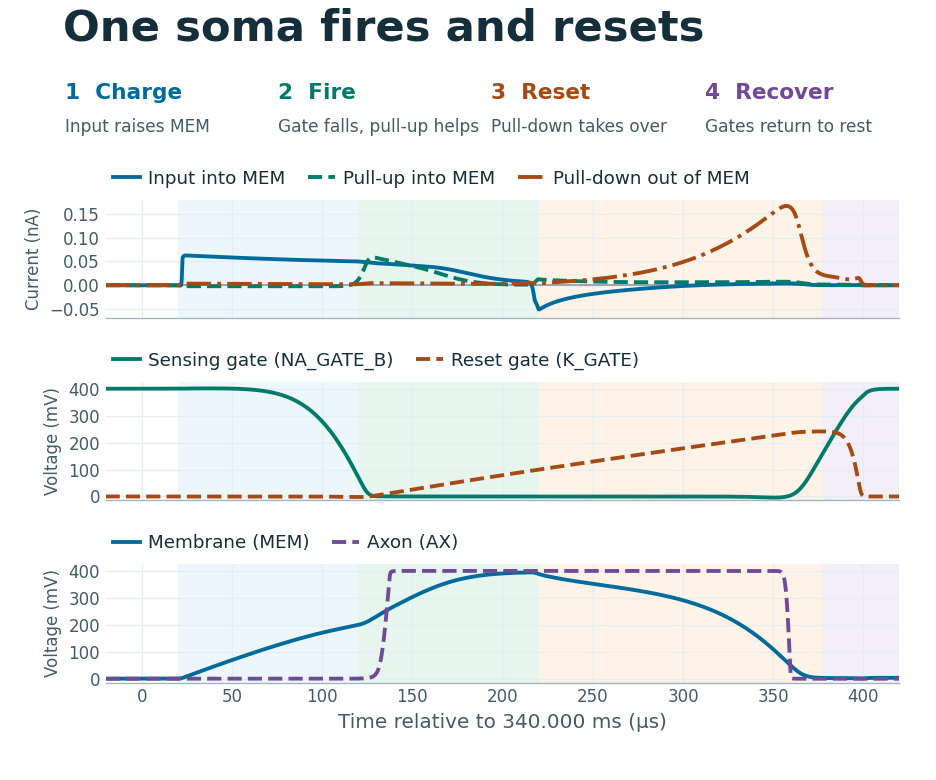
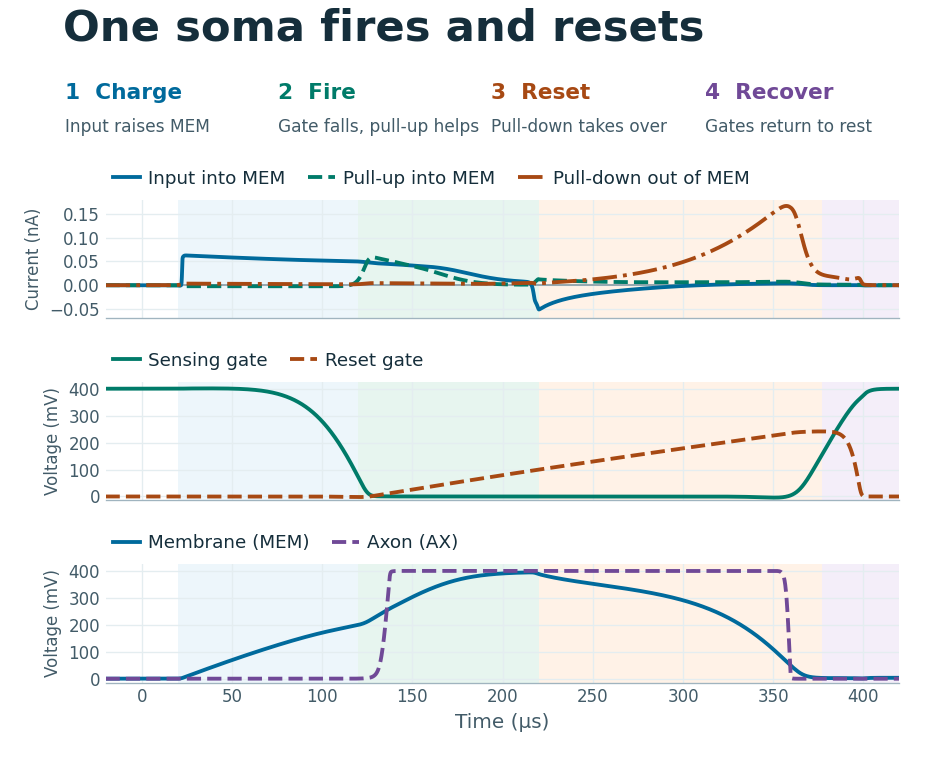
SKY-TT-012 Explain each chip experiment in the public guide

diff --git a/README.md b/README.md
@@ -1,66 +1,61 @@
 # Analogue SNN Building Blocks
 
-This project builds analogue circuits for spiking neural networks, where
-neurons communicate through brief voltage pulses. The Tiny Tapeout test chip
-brings neurons and synapses together in a small network that runs without a clock.
+This chip lets you watch a neuron fire, measure what each kind of synapse
+does on its own, and see how excitation and inhibition shape the response
+of a connected network. The neural circuits run continuously without a
+clock.
 
-[Four pins](#four-pins) · [Bench tests](#how-to-test) · [Tiny Tapeout datasheet source](docs/info.md)
-
-[![Soma replay. Input current lifts MEM, the sensing gate falls, pull-up current grows, and the axon rises. The delayed reset gate rises and pull-down current lowers MEM.](media/soma-firing.gif)](media/soma-firing.gif)
-
-[Soma still figure](docs/soma-firing.png) · Open either replay for a larger view.
-
-**Revision check.** The reservation `6c416f7` grounds all four analogue pins.
-Leave them undriven on that revision. The experiments below use the functional 1×2 tile.
+[Four analogue pins](#four-pins) · [Try the chip](#how-to-test) · [Datasheet](docs/info.md)
 
 ## How it works
 
-**Watch one soma fire.** The soma is the part of a neuron that charges up and fires.
-MEM is the voltage on its membrane capacitor. Follow the moving dots down the three plots.
+The soma integrates incoming current on a membrane capacitor. When the
+membrane voltage reaches threshold, the neuron sends a spike along its
+axon. The soma then discharges the capacitor so the neuron can fire again.
 
-1. **Charge.** Input current raises MEM first. The axon is still low.
-2. **Fire.** Rising MEM pulls the sensing gate (`NA_GATE_B`) low. The pull-up adds current, MEM rises faster and the axon goes high.
-3. **Reset.** The delayed reset gate (`K_GATE`) rises. It shuts off the pull-up path and turns on the pull-down, which discharges MEM. The axon goes low.
-4. **Recover.** As MEM falls, the sensing gate rises and the reset gate drops. The soma can charge again.
+[![A neuron charges, fires, resets and recovers.](media/soma-firing.gif)](media/soma-firing.gif)
 
-*Extracted SKY130A receiver simulation at 25 °C and R = 0.400 V. The time origin is 340.000 ms into that run.*
+[Still image](docs/soma-firing.png)
 
-**Follow the spike.** Both columns use the same STIM command. Read from top to bottom.
+Each of the two source neurons connects to the receiver through a synapse.
+A spike from the excitatory source adds current to the receiver. A spike
+from the inhibitory source draws current away. Each synapse stores its
+weight as charge on a floating gate. That weight sets how much current the
+synapse contributes when a spike arrives.
 
-[![Synchronized network replay. The same downward STIM pulse charges the enabled source somas. The E axon opens a positive synapse current. With both sources on, the I axon opens a negative current, the sum dips below zero and the receiver axon stays low.](media/follow-a-spike.gif)](media/follow-a-spike.gif)
+[![The same stimulus reaches the receiver with excitation alone and with excitation and inhibition together.](media/follow-a-spike.gif)](media/follow-a-spike.gif)
 
-[Network still figure](docs/follow-a-spike.png)
+[Still image](docs/follow-a-spike.png)
 
-- **Source soma → axon.** STIM charges each enabled source soma. Its axon carries the voltage spike to its synapse.
-- **Axon → synapse → dendrite.** The axon enables a current set by the synapse’s stored floating-gate charge. E supplies current to the receiving dendrite. I draws current out. The dotted trace is the sum of the two synapse currents.
-- **Dendrite → receiver.** With E alone, the receiving membrane charges enough to fire. With E and I active, E first raises the membrane. I then pulls the sum below zero and the receiver stays quiet.
-
-*Whole-tile simulations from the earlier Stage03 extraction at 25 °C and R = 0.400 V with a finite bench load and preset synapse weights. These plots show internal model signals. On the bench, use AOUT to watch the receiver.*
+In the simulated network example, inhibition keeps the receiver quiet
+with the same stimulus that makes it fire under excitation alone.
 
 ## Four pins
 
-| Macro pin | Name | Bench connection |
+| Macro pin | Name | What it does |
 | --- | --- | --- |
 | `ua[0]` | R | 0.400 V supply for the neural circuit |
-| `ua[1]` | H | Reference feed for readout. Use 0.420 V at park and a nominal 1.000 V read command. |
-| `ua[2]` | AOUT | Buffered readback to a high-impedance scope |
-| `ua[3]` | STIM | External stimulus from a pulse generator |
+| `ua[1]` | H | Reference and programming input. Use 0.420 V at park and 1.000 V for readout. |
+| `ua[2]` | AOUT | Buffered analogue output for a high-impedance scope |
+| `ua[3]` | STIM | Input for an external stimulus pulse |
 
-Use the delivered shuttle’s mux map to find the board connectors for these macro pins.
-The board supplies 1.800 V on VDPWR and provides VGND. [Tiny Tapeout analogue pin guide](https://tinytapeout.com/specs/analog/#analog-pins)
+Use the shuttle’s mux map to find the corresponding board connectors.
+The board supplies 1.800 V on VDPWR and provides VGND.
+[Tiny Tapeout analogue pin guide](https://tinytapeout.com/specs/analog/#analog-pins)
 
 ## How to test
 
-Digital words are hexadecimal `UI / UIO`. Keep programming requests `uio[2]`, `uio[3]` and `uio[5]` low throughout.
+1. **Soma.** Stimulate the receiving soma directly and watch the membrane
+   voltage rise and reset.
+2. **Soma and axon.** Repeat the stimulus with AOUT switched to the axon
+   to see the outgoing spike.
+3. **Excitatory synapse.** Stimulate the standalone excitatory cell and
+   use the calibrated readout to measure the positive current.
+4. **Inhibitory synapse.** Repeat with the standalone inhibitory cell
+   to measure the negative current.
+5. **Connected network.** Send the same pulse with both sources off,
+   with excitation alone, and with excitation and inhibition together.
+   Compare the receiver's response.
 
-1. **Park and check.** Select the functional tile. Follow the board’s power-up order with `ena` low and reset asserted. Start at `00 / 00` with H at 0.420 V park. Release reset and enable the tile with `clk` low. Check feed currents and that AOUT is disconnected before changing to a read word.
-2. **Take a quiet trace.** Commission AOUT and STIM as described in [the bench procedure](docs/info.md#how-to-test). Use `53 / 00` to observe the receiving axon at AOUT with both sources off. Apply the same commissioned STIM pulse in tests 2–4.
-3. **Enable E.** Set `57 / 40` and repeat the pulse. Look for a receiver spike after STIM returns to park.
-4. **Enable E and I.** Set `5F / 40` and repeat the pulse. With weights comparable to the simulation, AOUT stays near its quiet level. The starting weights on silicon can differ from the model presets.
-
-Between tests, return STIM to park, open the AOUT route and turn off delivery before changing the selection. Let the new route settle and allow the receiver to recover before pulsing again.
-
-The corrected route03 extraction resolved an imposed inhibitory
-floating-gate charge change through calibrated AOUT while the excitatory
-cell remained steady. Writing and retention are separate powered silicon
-experiments.
+AOUT shows one signal at a time. The [datasheet bench steps](docs/info.md#how-to-test)
+give the settings for each experiment.

diff --git a/docs/info.md b/docs/info.md
@@ -1,43 +1,74 @@
 ## How it works
 
-STIM drives two source neurons. Static GPIO selects which source can excite (E) or inhibit (I) the receiving neuron.
+You can drive the receiving soma directly and watch its membrane charge
+and reset. Switch AOUT to the axon and repeat the stimulus to see the
+outgoing spike.
 
-- Current charges the soma’s membrane capacitor (MEM). As MEM rises, the sensing gate falls and the pull-up drives an axon spike.
-- The delayed reset gate turns off the pull-up and turns on the pull-down. MEM discharges and the axon returns low.
+![Simulation of a neuron charging, firing and resetting.](soma-firing.png)
 
-![Soma spike and reset in an extracted SKY130A receiver simulation.](soma-firing.png)
+Two source neurons feed the receiver. One synapse adds current and the
+other draws it away. Floating-gate charge sets each synapse's strength.
 
-- At each synapse, an axon spike enables a current set by stored floating-gate charge. E adds current to the receiving dendrite and I draws current out.
-- The same STIM pulse fires the receiver with E alone. With E and I, the dotted current sum dips below zero and the receiver axon stays low.
+Two standalone cells let you read the excitatory and inhibitory currents
+separately and apply programming pulses from H.
 
-![Same STIM command with E alone and with E and I in the Stage03 extraction at 25 °C, R = 0.400 V and preset synapse weights.](follow-a-spike.png)
+![Simulation showing how the same pulse affects the receiver with excitation alone and with inhibition added.](follow-a-spike.png)
 
 ## How to test
 
-**Check the revision first.** The reservation `6c416f7` grounds `ua[0]` through `ua[3]`. Leave those pins undriven on that revision. These steps use the functional tile. Use the shuttle’s mux map to locate its board connectors.
+Use the shuttle’s mux map to find these four pins on the board.
 
-| Macro pin | Name | Connection |
+| Macro pin | Name | What it does |
 | --- | --- | --- |
 | `ua[0]` | R | 0.400 V neural supply |
-| `ua[1]` | H | 0.420 V at park, nominal 1.000 V read command |
-| `ua[2]` | AOUT | Buffered receiver readback to scope |
-| `ua[3]` | STIM | External pulse generator |
+| `ua[1]` | H | Reference and programming input |
+| `ua[2]` | AOUT | Buffered analogue output |
+| `ua[3]` | STIM | Stimulus input |
 
-Words are hex `UI/UIO`. Keep `clk` and programming requests `uio[2]`, `uio[3]` and `uio[5]` low. Before changing routes, park STIM, open AOUT and turn off delivery. Settle the new route before reconnecting AOUT.
+Settings are hexadecimal `UI / UIO` words. Keep `clk` and the
+programming inputs `uio[2]`, `uio[3]` and `uio[5]` low during these
+experiments.
 
-1. **Power and park.** Follow the board power-up order with `ena` low, reset asserted, H at 0.420 V park and `00/00`. Release reset and enable the tile with `clk` low. Check feed currents and AOUT isolation before changing to a read word.
-2. **Calibrate.** Set H to 1.000 V. At `48/00`, fit AOUT at 190 and 210 mV STIM and check an interior level. Compare current-read blank `84/00` with CAL `A4/00`. Fit the change in AOUT against connector current and check a point of each sign. Check the VI input clamp separately at `64/00`.
-3. **Survey STIM.** With MEM isolated, compare positive delivery `84/50` with blank `84/40`. Measure loaded STIM. Start with small commands in the surveyed range.
-4. **Observe quiet.** Apply a commissioned pulse at `53/00`. AOUT shows the receiver axon with both sources off. The model command falls from 399 to 153.41 mV in 7 µs, holds 30 µs and returns in 4 µs.
-5. **Enable E.** Repeat the pulse at `57/40`. Look for a receiver spike. Use `47/40` for a separate MEM trace.
-6. **Enable E and I.** Repeat at `5F/40` with the same pulse, supplies and load. Look for a quiet axon. Use `4F/40` for MEM. Recover between pulses. The model used E and I floating-gate presets of 0.225 V and 0.125 V. Record the starting silicon response.
+Power up with `ena` and `rst_n` low, `00 / 00` selected, H at 0.420 V
+and STIM at 0.400 V. Follow the board's power-up order. Release reset and
+enable the chip. Check the supply currents before bringing H to 1.000 V
+for readout. Select `48 / 00` and change STIM from 190 mV to 210 mV.
+Check that AOUT follows the change.
 
-Route03 resolved an imposed inhibitory floating-gate charge change through
-calibrated AOUT in the powered extracted model. Writing and retention require
-a separate silicon experiment.
+| Experiment | UI / UIO | Read at AOUT |
+| --- | --- | --- |
+| Soma | `41/40` | Receiver membrane voltage |
+| Soma and axon | `42/40` | Receiver axon spike |
+| Excitatory synapse | `84/01` | Positive current |
+| Inhibitory synapse | `84/02` | Negative current |
+| Connected network | `53/00`, `57/40`, `5F/40` | Receiver axon response |
+
+For the soma and axon, drive the receiver directly from STIM. Use
+`41/00` and `42/00` for the quiet traces. In the network, the three
+settings select both sources off, excitation alone, and excitation with
+inhibition. For each trace, try dropping STIM from 0.400 V to about
+0.153 V with a 7 µs fall, a 30 µs hold and a 4 µs return. Keep the
+pulse and load the same and let the receiver recover between pulses.
+
+For either standalone synapse, set STIM to 0.400 V for the active read
+and 0 V for the inactive check. Calibrate the current readout using
+`84 / 00` for the blank and `A4 / 00` to connect the 10 MΩ calibration
+resistor. Take calibration readings with STIM above and below the sense
+voltage. Use `64 / 00` to observe the sense voltage with the resistor
+still connected. The reference current is STIM minus the sense voltage,
+divided by 10 MΩ.
+
+Subtract the blank from each cell reading before converting the AOUT
+change to current. Observe the drain voltage separately at `44 / 01`
+for excitation and `44 / 02` for inhibition. Compare readings at the
+same drain bias.
+
+Between modes, park STIM and select `00 / 00` to turn off delivery
+and open the AOUT route. Set the next word and let the readout settle
+before recording.
 
 ## External hardware
 
-- Tiny Tapeout demo board with analogue mux, 1.800 V VDPWR and VGND.
-- Current-limited R and H supplies that can sink current, a pulse generator, voltage and current meters, and a high-impedance scope probe with a Kelvin return.
-- The model fixture used a 502 Ω H feed, a 0.1 Ω return and a 100 MΩ / 24 pF AOUT load. Log the board, cable and probe loading.
+Use a Tiny Tapeout demo board with an analogue mux, 1.800 V VDPWR and
+VGND. You’ll need current-limited R and H supplies that can sink current,
+a pulse generator and a high-impedance scope probe.
